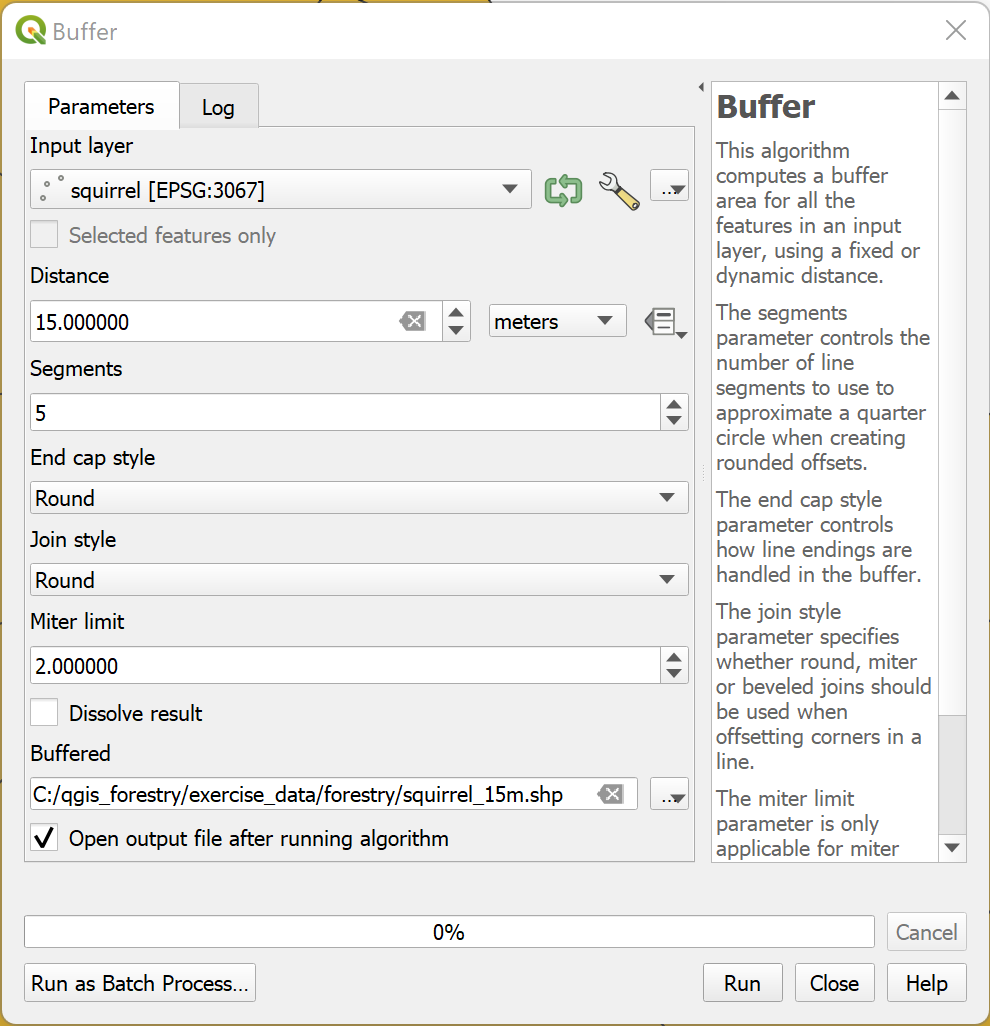
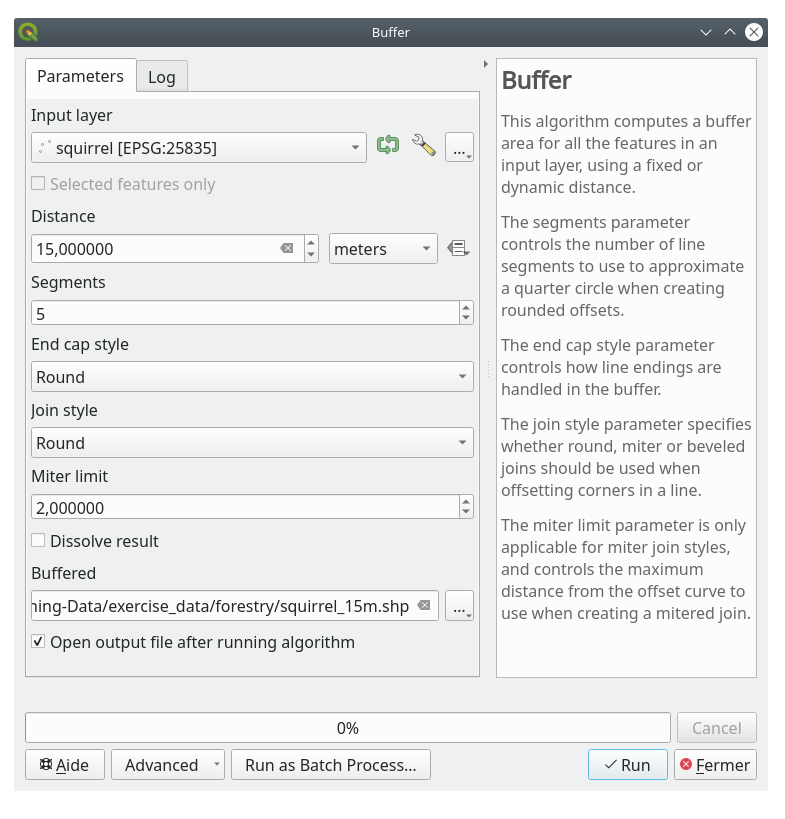
Review logic of instructions for the "Forest Stands with Conservation Information" section
There's no need/logic in first joining point to polygon while we are interested in the point buffer.
Let's use the buffer for the join instructions directly

Changed region(s): [[0.0, 0.0, 1.0, 0.8547], [0.0, 0.8852, 1.0, 1.0], [0.5809, 0.5189, 0.6115, 0.5495]]

diff --git a/docs/training_manual/forestry/updating_stands.rst b/docs/training_manual/forestry/updating_stands.rst
@@ -167,131 +167,107 @@ You can add some extra information about conservation regulations that need to b
 |basic| |FA| Updating Forest Stands with Conservation Information
 -------------------------------------------------------------------------------
 
-For the area you are working in, there are some
-conservation regulations must be taken into account when doing the forest planning:
+For the area you are working in, there are some conservation regulations
+that must be taken into account when doing the forest planning:
 
-* Two locations of a protected species of Siberian flying squirrel (Pteromys volans)
-  have been identified. According to the regulation, an area of 15 meters around
-  the spots must be left untouched.
-* A riparian forest of special interest that is growing along a stream in the area must
-  be protected. In a visit to the field, it was found that 20 meters to both
-  sides of the stream must be protected.
+* Two locations of a protected species of Siberian flying squirrel (Pteromys volans) have been identified.
+  According to the regulation, an area of 15 meters around the spots must be left untouched.
+* A riparian forest of special interest that is growing along a stream in the area must be protected.
+  In a visit to the field, it was found that 20 meters to both sides of the stream must be protected.
 
 You have a vector file containing the information about the squirrel locations
-and another containing the digitized stream running from the North area towards
-the lake. Add these files to the project.
+and another containing the digitized stream running from the North area towards the lake.
 
-	#. Go to the :file:`exercise_data\\forestry\\` folder using your file manager browser
-	#. Drag and drop the files :file:`squirrel.shp` and :file:`stream.shp` to your map
+#. From the :file:`exercise_data\\forestry\\` folder, add the :file:`squirrel.shp`
+   and :file:`stream.shp` files to the project.
+#. Use the |openTable| :sup:`Open Attribute Table` tool to view the ``squirrel`` layer
 
-For the protection of the squirrels locations, you are going to add a new
-attribute (column) to your new forest stands that will contain information
-about locations that have to be protected. This information will then be
-available whenever a forest operation is planned, and the field team will be
-able to mark the area that has to be left untouched before the work starts. 
+   You can see that there are two locations that are defined as Siberian flying squirrel,
+   and that the area to be protected is indicated by a distance of 15 meters from the locations.
 
-* Use the |openTable| :sup:`Open Attribute Table` tool to view the ``squirrel`` layer
+Let's more accurately delimitate that area to protect.
+We will create a buffer around the point locations, using the protection distance.
 
-You can see that there are two locations that are defined as Siberian flying 
-squirrel, and that the area to be protected is indicated by a distance of
-15 meters from the locations.
+#. Open :menuselection:`Vector --> Geoprocessing Tools --> Buffer`.
+#. Set :guilabel:`Input layer` to |pointLayer| :guilabel:`squirrel`
+#. Set :guilabel:`Distance` to ``15 meters``
+#. Set :guilabel:`Buffered` to :file:`exercise_data\\forestry\\squirrel_15m.shp`
+#. Check |checkbox| :guilabel:`Open output file afer running algorithm`
+#. Click :guilabel:`Run`
+#. Once the process is completed, click :guilabel:`Close`
 
-To join the information about the squirrels to your forest stands, you can use
-the :guilabel:`Join attributes by location`:
+     .. figure:: img/squirrel_15m.png
+      :align: center
 
-* Open :menuselection:`Vector --> Data Management Tools --> Join attributes by location`.
-* Set :guilabel:`Base layer` to |polygonLayer| ``forest_stands_2012``
-* Set :guilabel:`Join layer` to |pointLayer| ``squirrel``
-* In :guilabel:`Geometric predicate`, check |checkbox| ``intersects``
-* Set :guilabel:`Join type` as ``Take attributes of the first matching feature only (one-to-one)``
-* Set :guilabel:`Joined layer [optional]` to ``stands_squirrel.shp``
-* Check |checkbox| ``Open output file afer running algorithm``
-
-* Click :guilabel:`Run`
-
-* Once the process is completed, click :guilabel:`Close`
-
-
-.. figure:: img/join_squirrel_point.png
-   :align: center
-
-|
-
-Now you have a new forest stands layer, |polygonLayer| ``stands_squirrel`` showing the protection information for the
-Siberian flying squirrel.
-
-* Use the |openTable| :sup:`Open Attribute Table` tool to view the ``stands_squirrel`` layer
-* Click on :guilabel:`point_pr` attribute in the table header.
-
-You can see that there are two forest stands where the squirrels have been located:
-
-.. figure:: img/joined_squirrel_point.png
-   :align: center
-
-|
-
-This is a good start, but you know that you need to create a buffer of
-15 meters around the squirrels' location:
-
-* Open :menuselection:`Vector --> Geoprocessing Tools --> Buffer`.
-* Set :guilabel:`Input layer` to |pointLayer| ``squirrel`` 
-* Set :guilabel:`Distance` to ``15`` ``meters`` 
-* Set :guilabel:`Buffered` to ``squirrel_15m.shp``
-* Check |checkbox| ``Open output file afer running algorithm``
-
-* Click :guilabel:`Run`
-
-* Once the process is completed, click :guilabel:`Close`
-
-.. figure:: img/squirrel_15m.png
-   :align: center
-
-|
-
-If you zoom in to the location in the northern part of the area, you will notice that the buffer area extends to the neighbouring stand as well. This means that
-whenever a forest operation takes place in that stand, the protected
-location should also be taken into account.
+If you zoom in to the location in the northern part of the area,
+you will notice that the buffer area extends over two neighbouring stands.
+This means that whenever a forest operation takes place in that stand,
+the protected location should also be taken into account.
 
 .. figure:: img/north_squirrel_buffer.png
    :align: center
 
 |
 
-From your previous analysis, the neighbouring stand did not contain information
-about the protection status. To change this:
+For the protection of the squirrels locations, you are going to add a new
+attribute (column) to your new forest stands that will contain information
+about locations that have to be protected. This information will then be
+available whenever a forest operation is planned, and the field team will be
+able to mark the area that has to be left untouched before the work starts.
 
-* Run the :guilabel:`Join attributes by location` tool again.
-* This time, set :guilabel:`Join layer` to |polygonLayer| ``squirrel_15m``
+To join the information about the squirrels to your forest stands,
+you can use the :guilabel:`Join attributes by location` algorithm:
 
-* Set :guilabel:`Joined layer [optional]` to ``stands_squirrel_15m.shp``.
+#. Open :menuselection:`Vector --> Data Management Tools --> Join attributes by location`.
+#. Set :guilabel:`Join to features in` to |polygonLayer| :guilabel:`forest_stands_2012`
+#. In :guilabel:`Geometric predicate`, check |checkbox| :guilabel:`intersect`
+#. Set :guilabel:`By comparing to` to |polygonLayer| :guilabel:`squirrel_15m`
+#. Set :guilabel:`Join type` as :guilabel:`Take attributes of the first matching feature only (one-to-one)`
+#. Leave unchecked :guilabel:`Discard records which could not be joined`
+#. Set :guilabel:`Joined layer` to :file:`exercise_data\\forestry\\stands_squirrel.shp`
+#. Check |checkbox| :guilabel:`Open output file afer running algorithm`
+#. Click :guilabel:`Run`
+#. Once the process is completed, you can :guilabel:`Close` the dialog.
 
-.. figure:: img/joined_squirrel_buffer.png
-   :align: center
+   .. figure:: img/joined_squirrel_buffer.png
+      :align: center
 
-|
+Now you have a new forest stands layer, :file:`stands_squirrel.shp`
+showing the protection information for the Siberian flying squirrel.
 
-When you open the attribute table for the new layer, you will see that there are now 
-three forest stands that have the information about the protection locations.
-The information in the forest stands data will indicate to the forest manager
-that there are protection considerations to be taken into account. Then he or
-she can get the location from the :kbd:`squirrel` dataset, and visit the area
-to mark the corresponding buffer around the location so that the operators in
-the field can avoid disturbing the squirrels environment.
+#. Open the attribute table of the ``stands_squirrel`` layer
+#. Sort the table by clicking on :guilabel:`point_pr` field in the table header.
+
+   .. figure:: img/stands_squirrel_table.png
+      :align: center
+
+   You can see that there are some forest stands that have the information
+   about the protection locations.
+   The information in the forest stands data will indicate to the forest manager
+   that there are protection considerations to be taken into account.
+   Then he or she can get the location from the :guilabel:`squirrel` dataset,
+   and visit the area to mark the corresponding buffer around the location
+   so that the operators in the field can avoid disturbing the squirrels environment.
+
+.. Todo? Consider doing an intersection between the buffer and stands layers
+ to actually delimitate area people should not go to?
+
 
 |basic| |TY| Updating Forest Stands with Distance to the Stream
 -------------------------------------------------------------------------------
 
 Following the same approach as for the protected squirrel locations
-you can now update your forest stands with protection information related to
-the stream. A few points:
+you can now update your forest stands with protection information related to the stream.
+A few points:
 
 * Remember the buffer is ``20`` meters around the stream
 * You want to have all the protection information in the same vector file,
-  so use |polygonLayer| ``stands_squirrel_15m`` as the Base layer
-* Name your output as ``forest_stands_2012_protect.shp``
+  so use :file:`stands_squirrel.shp` as the base layer
+* Name your output as :file:`forest_stands_2012_protect.shp`
 
-Once the process is completed, open the attribute table for ``forest_stands_2012_protect`` and confirm that you have
-all the protection information for the riparian forest stands associated with the stream.
+Once the process is completed, open the attribute table of the output layer
+and confirm that you have all the protection information for the riparian forest stands
+associated with the stream.
 
 When you are happy with the results, save your QGIS project.
 
